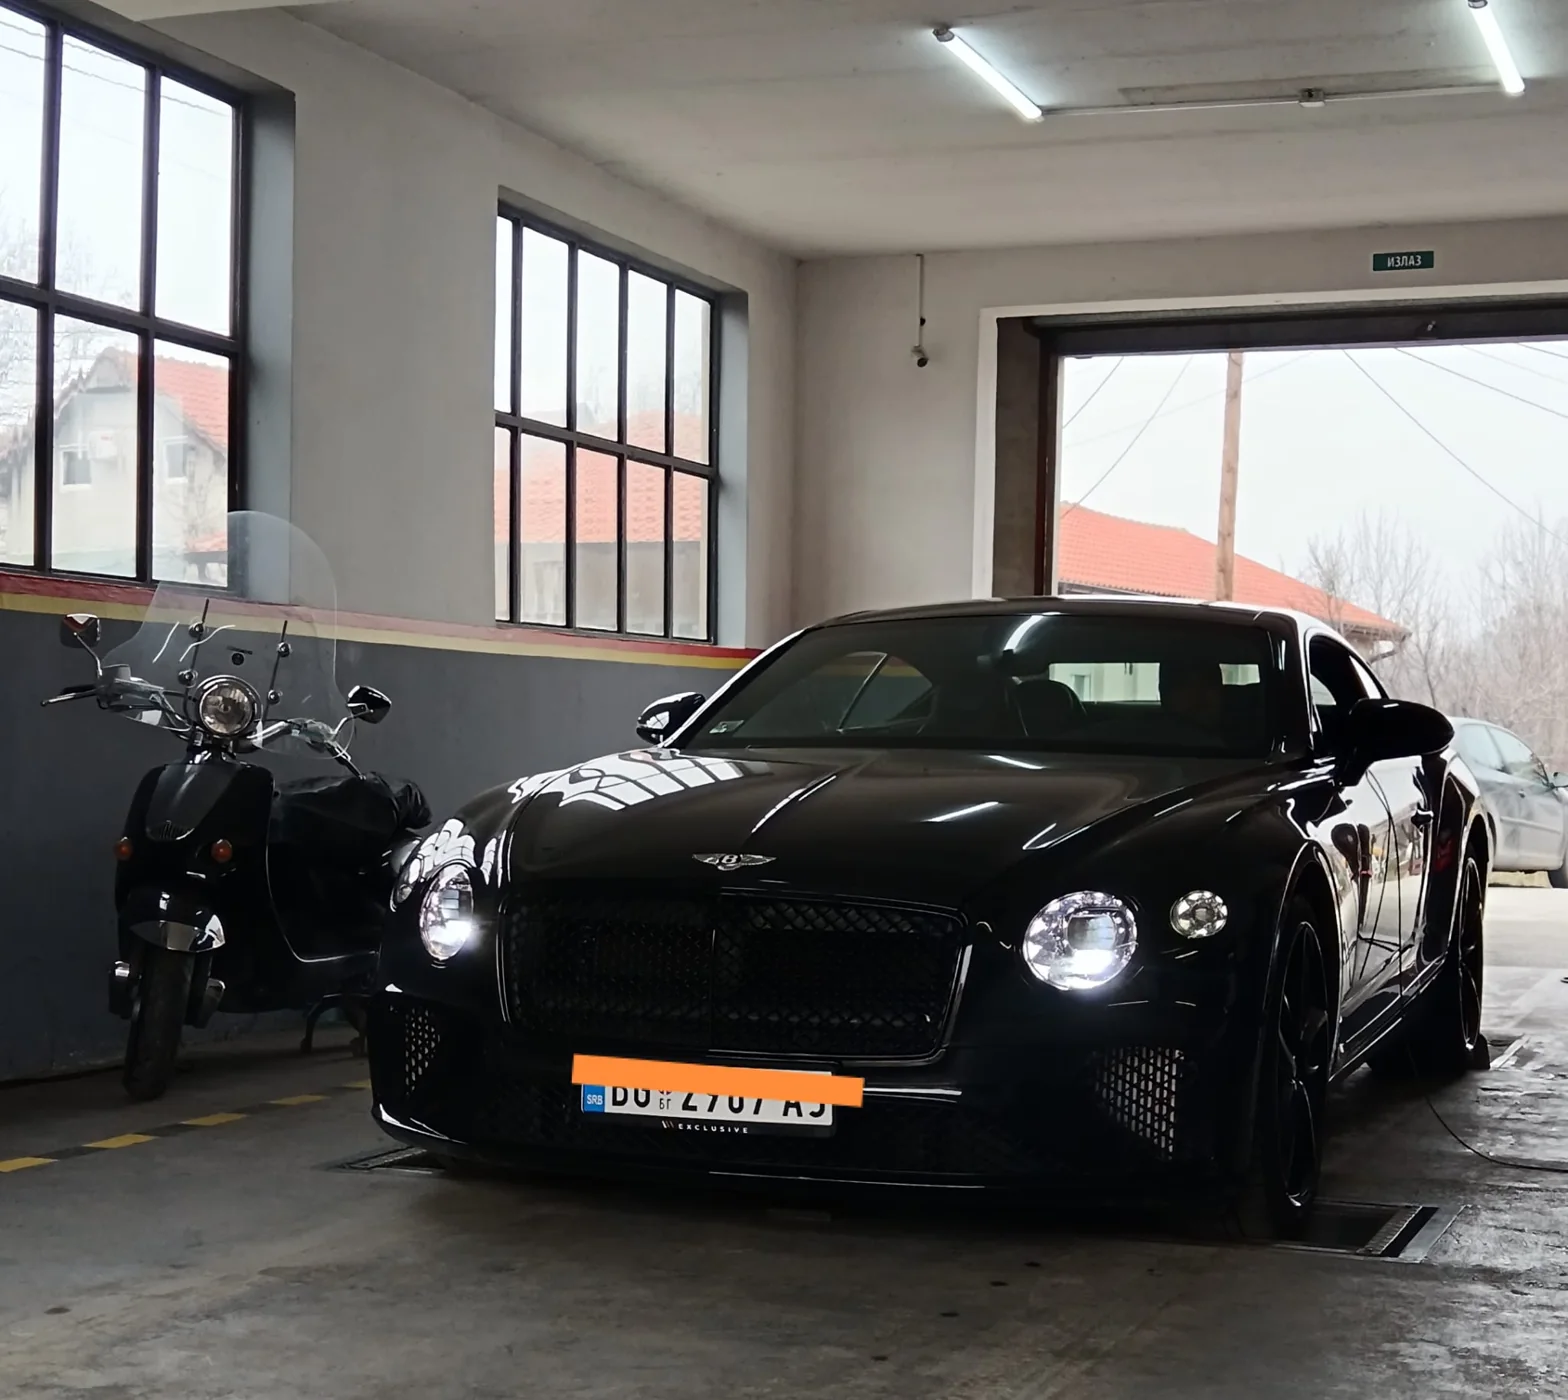
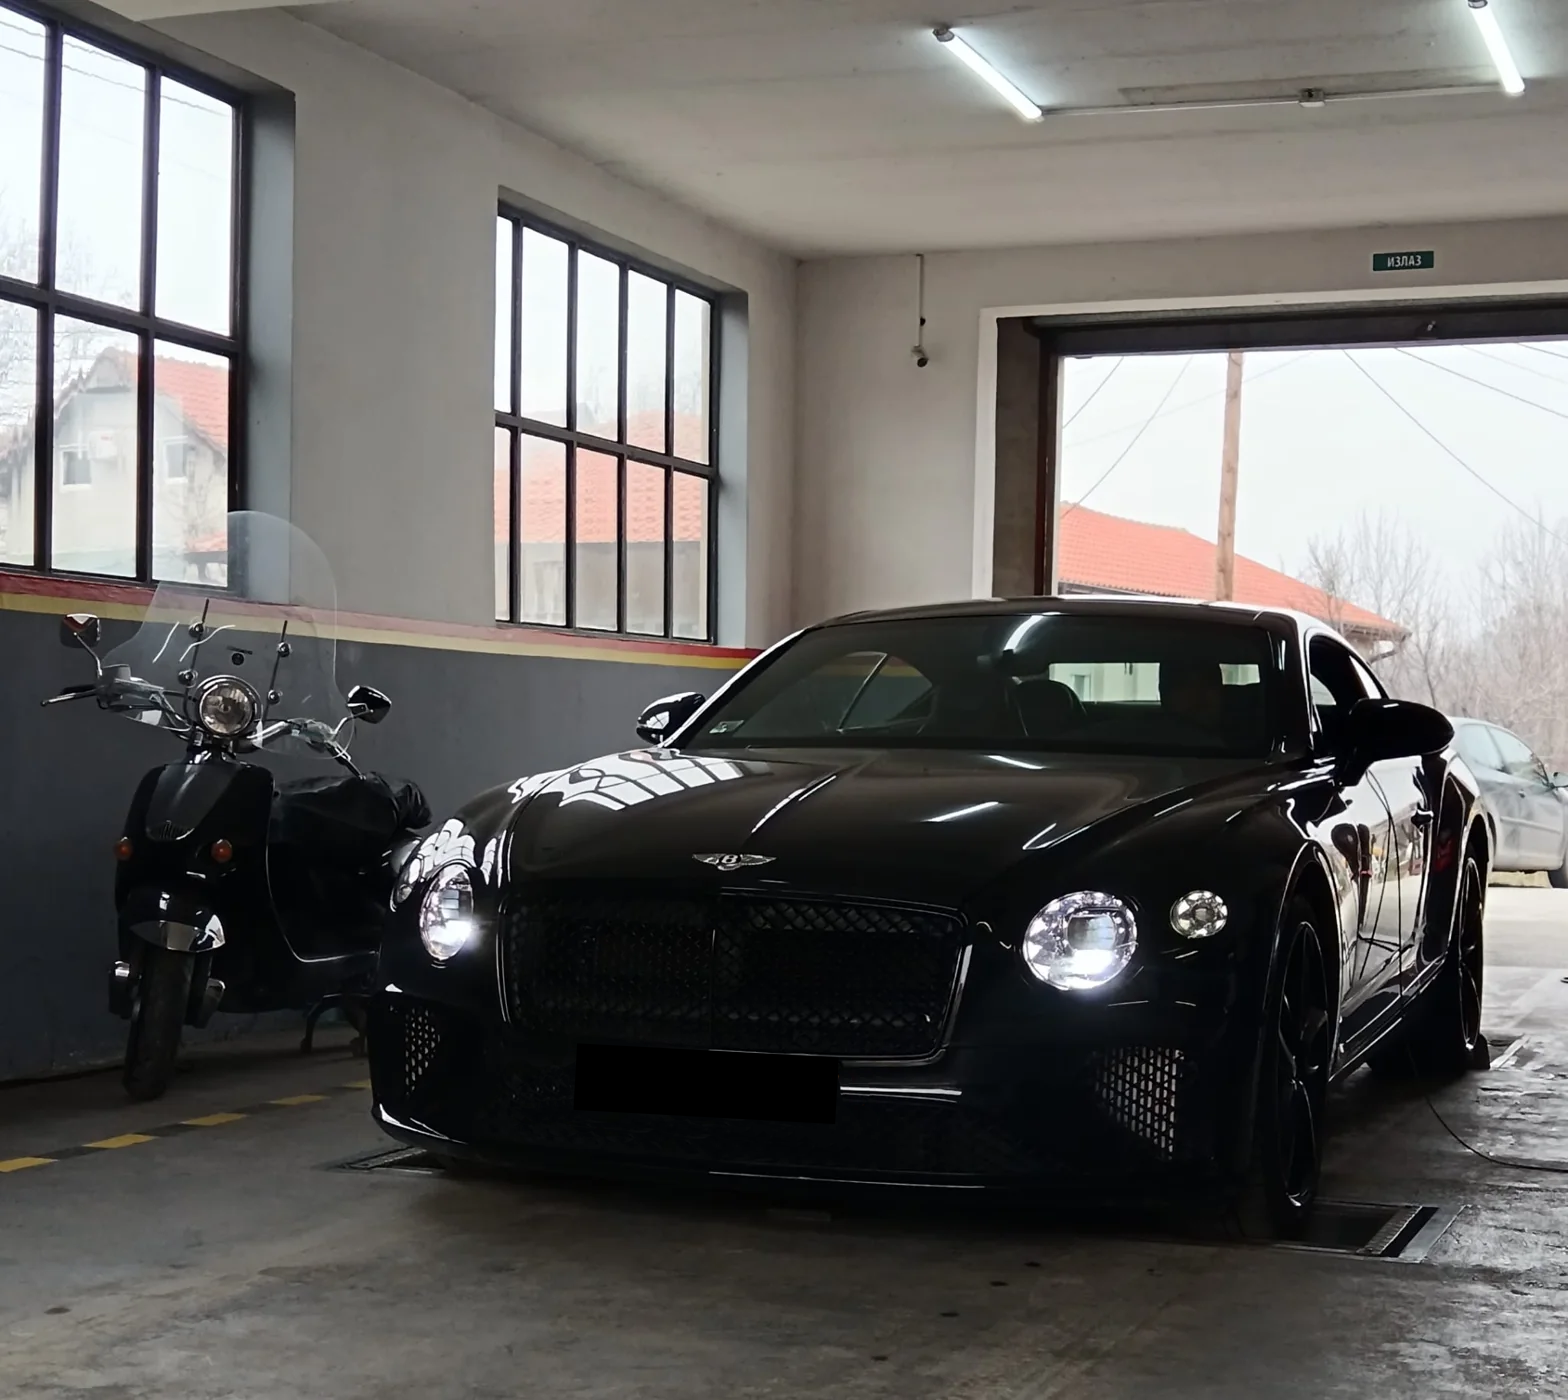
inspection picture

Changed region(s): [[0.3438, 0.7371, 0.5625, 0.8293]]

diff --git a/app/layout.tsx b/app/layout.tsx
@@ -1,11 +1,19 @@
-import type { Metadata } from 'next';
-import './globals.css';
+import type { Metadata } from "next";
+// @ts-expect-error Next.js handles CSS side-effect imports at build time.
+import "./globals.css";
 
 export const metadata: Metadata = {
-  title: 'Garaža Beograd | Tehnički pregled',
-  description: 'Tehnički pregled, registracija vozila, osiguranje i plaćanje računa na jednom mestu.',
+  title: "Garage Beograd | Tehnički pregled",
+  description:
+    "Tehnički pregled, registracija vozila, osiguranje i plaćanje računa na jednom mestu.",
 };
 
-export default function RootLayout({ children }: Readonly<{ children: React.ReactNode }>) {
-  return <html lang="sr"><body>{children}</body></html>;
+export default function RootLayout({
+  children,
+}: Readonly<{ children: React.ReactNode }>) {
+  return (
+    <html lang="sr">
+      <body>{children}</body>
+    </html>
+  );
 }
